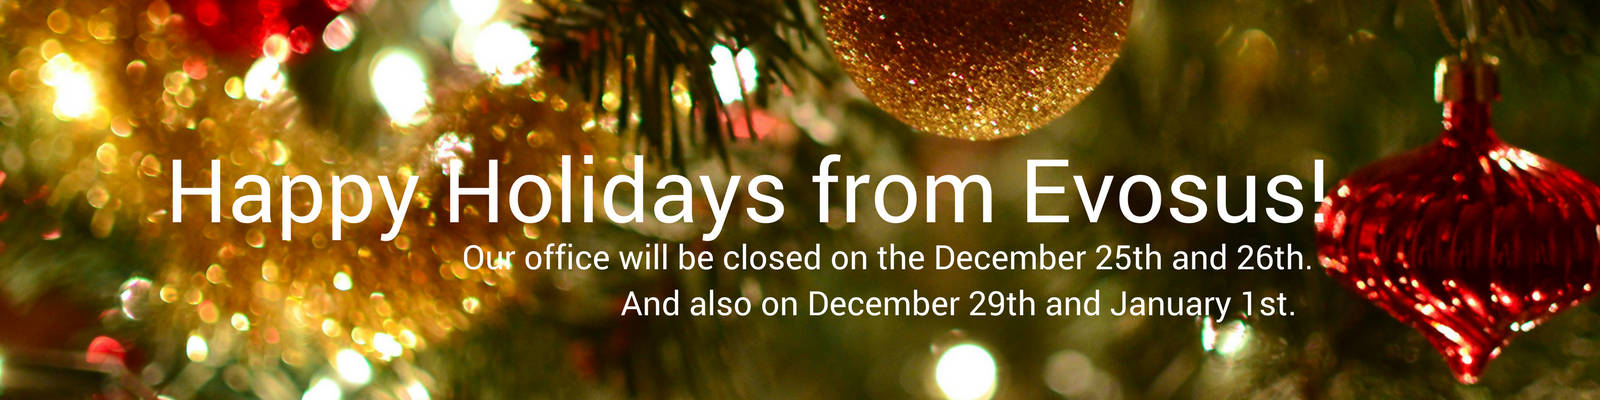
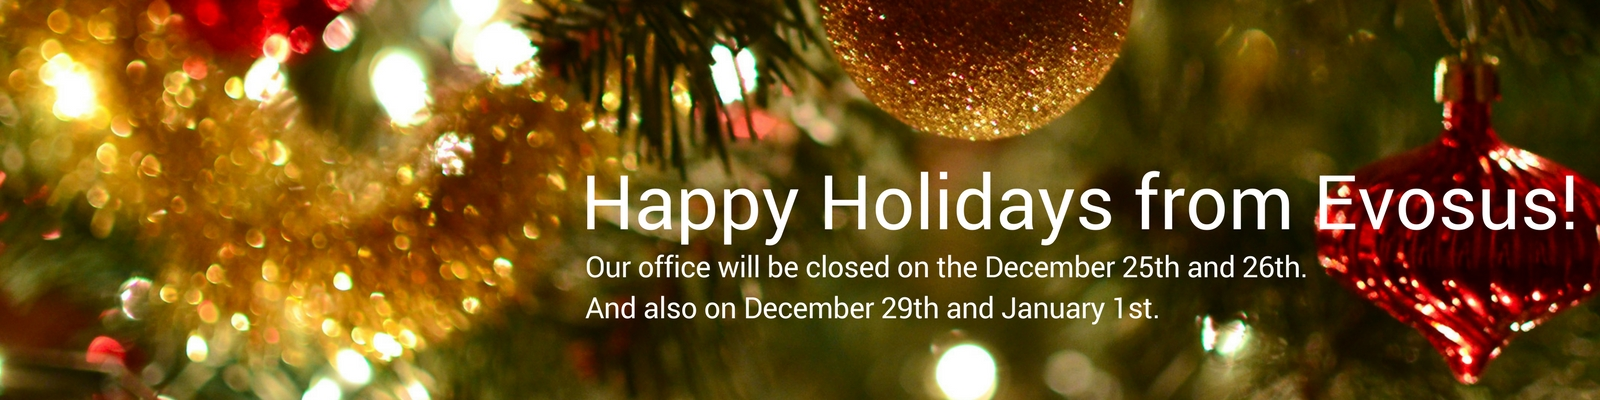
ES-520
ES-520

Changed region(s): [[0.0938, 0.39, 1.0, 0.69], [0.3438, 0.72, 0.8125, 0.81]]

diff --git a/main/PortalHome.html b/main/PortalHome.html
@@ -1,9 +1,8 @@
  <!--   Carousel - header   -->
 <div id="main-carousel" class="carousel carousel-slider center" data-indicators="true">
-  <div class="carousel-item white-text bg-fun">
+  <div class="carousel-item white-text bg-holidays">
     <div class="container">
-      <h1 class="header carousel-header">We're excited to introduce the Evosus Help Desk!</h1>
-      <p class="white-text">Have a question? Now everything is in one place.</p>
+     
     </div>
   </div>
   <div class="carousel-item amber white-text bg-computer">
